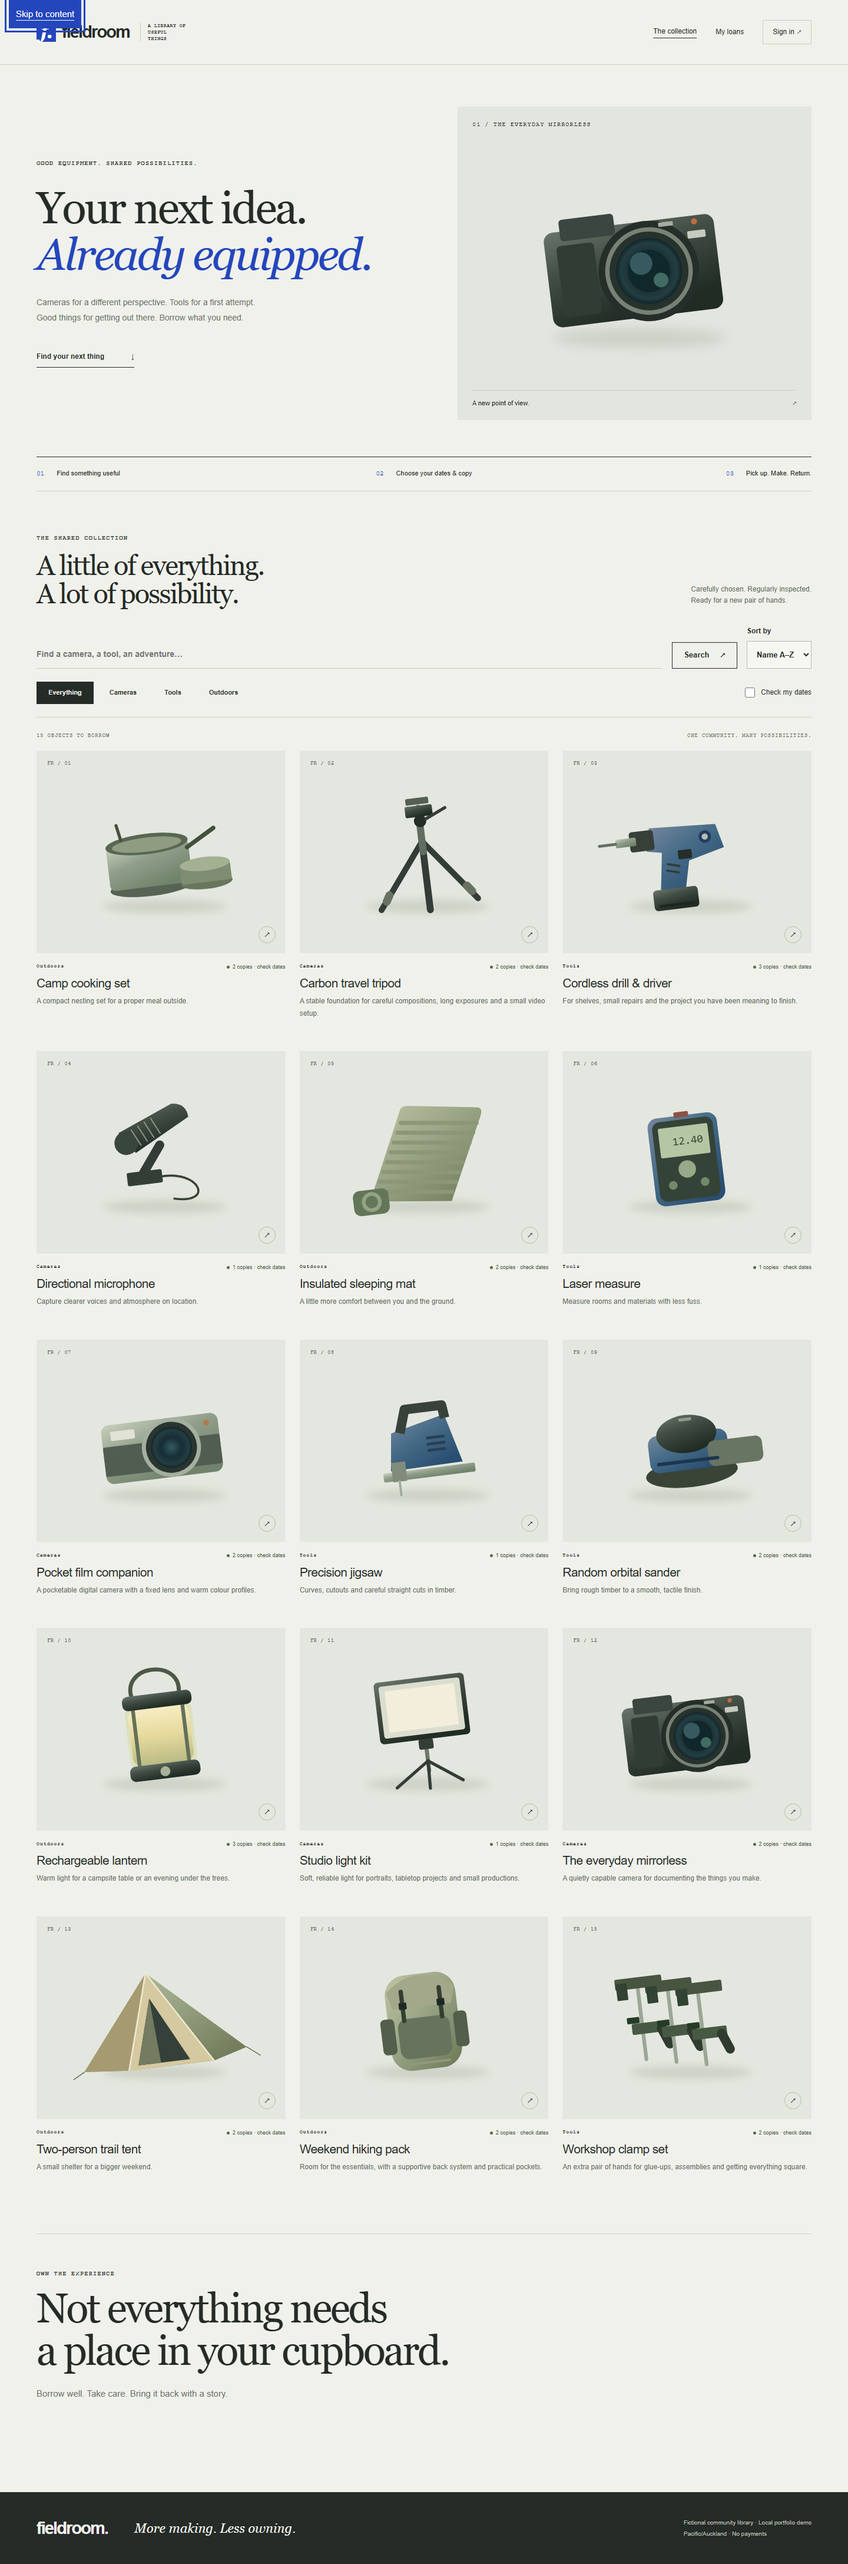
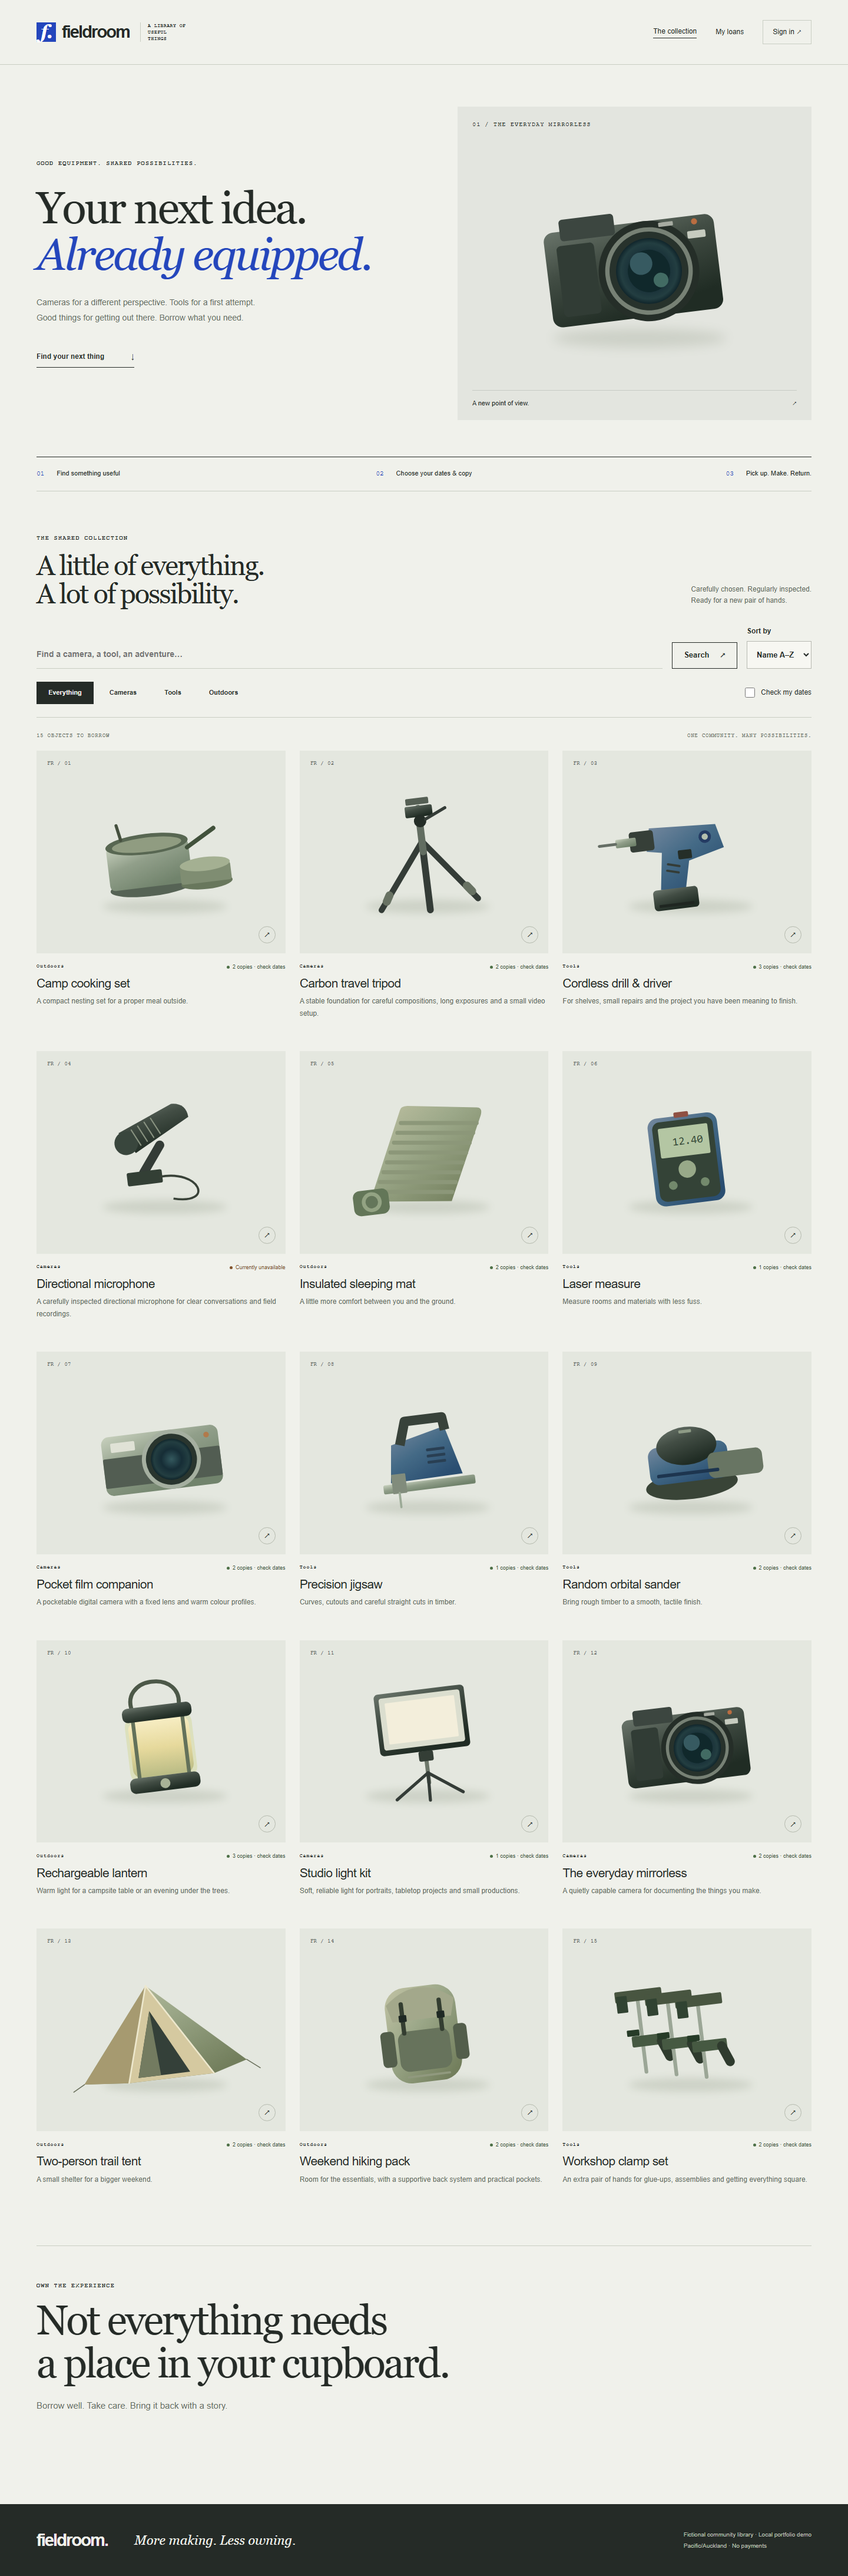
feat: finish accessible mobile booking recovery and lending desk presentation

diff --git a/web/e2e/desk.spec.ts b/web/e2e/desk.spec.ts
@@ -85,10 +85,14 @@ test('manager picks up, receives damaged equipment, inspects and edits inventory
       product.getByRole('button', { name: 'Save product' }),
     ).toHaveCount(0);
     await page.getByRole('tab', { name: 'Loans' }).click();
+    await expect(
+      page.getByRole('link', { name: 'FR-DESK-TEST' }),
+    ).toBeVisible();
     await page.setViewportSize({ width: 1440, height: 1000 });
     await page.screenshot({
       path: '../docs/screenshots/lending-desk.png',
       fullPage: true,
+      animations: 'disabled',
     });
     expect((await new AxeBuilder({ page }).analyze()).violations).toEqual([]);
     const record = (

diff --git a/web/src/main.tsx b/web/src/main.tsx
@@ -846,6 +846,12 @@ function BookingPage({ id, manager }: { id: string; manager: boolean }) {
           </p>
           <PolicyNote p={b.policy} />
           <ErrorBox message={error} />
+          {['Expired', 'Released'].includes(b.state) && (
+            <div className="notice">
+              This hold is no longer active.{' '}
+              <a href="/">Choose equipment and dates again →</a>
+            </div>
+          )}
           {b.state === 'Hold' && (
             <div className="confirm-box">
               <p role="timer" aria-label="Hold time remaining">

diff --git a/web/src/style.css b/web/src/style.css
@@ -1131,6 +1131,7 @@ td:last-child {
   .auth-grid,
   .booking-detail {
     grid-template-columns: 1fr;
+    row-gap: 32px;
   }
   .detail-art {
     padding: 18px;

diff --git a/docs/PROGRESS.md b/docs/PROGRESS.md
@@ -23,6 +23,9 @@ setup works. Phase 3 operational workflows pass all five browser journeys, inclu
 manager pickup/damaged return/inspection/edit, lost response recovery and expired-hold
 rebooking. Aggregate local verification passed (41 backend / 11 frontend / 5 browser)
 before three additional regression tests; the latest backend run is recorded below.
-Phase 4: final mobile spacing, focus/scroll accessibility, screenshot inspection.
-Phase 5: independent review fixes complete; final checks, clean-clone and remote CI
-remain. No push yet.
+Phase 4 complete: mobile summary spacing, explicit expired-hold recovery, keyboard
+schedule scrolling, reduced motion, axe checks and inspected desktop/mobile screenshots.
+Phase 5: independent review fixes complete. Latest backend suite: 45 passing tests,
+including direct SQL attempts at two open checkouts for different bookings. An actual
+API process restart preserves the session, booking and original idempotency outcome.
+Final aggregate, clean-clone and remote CI remain. No push yet.
